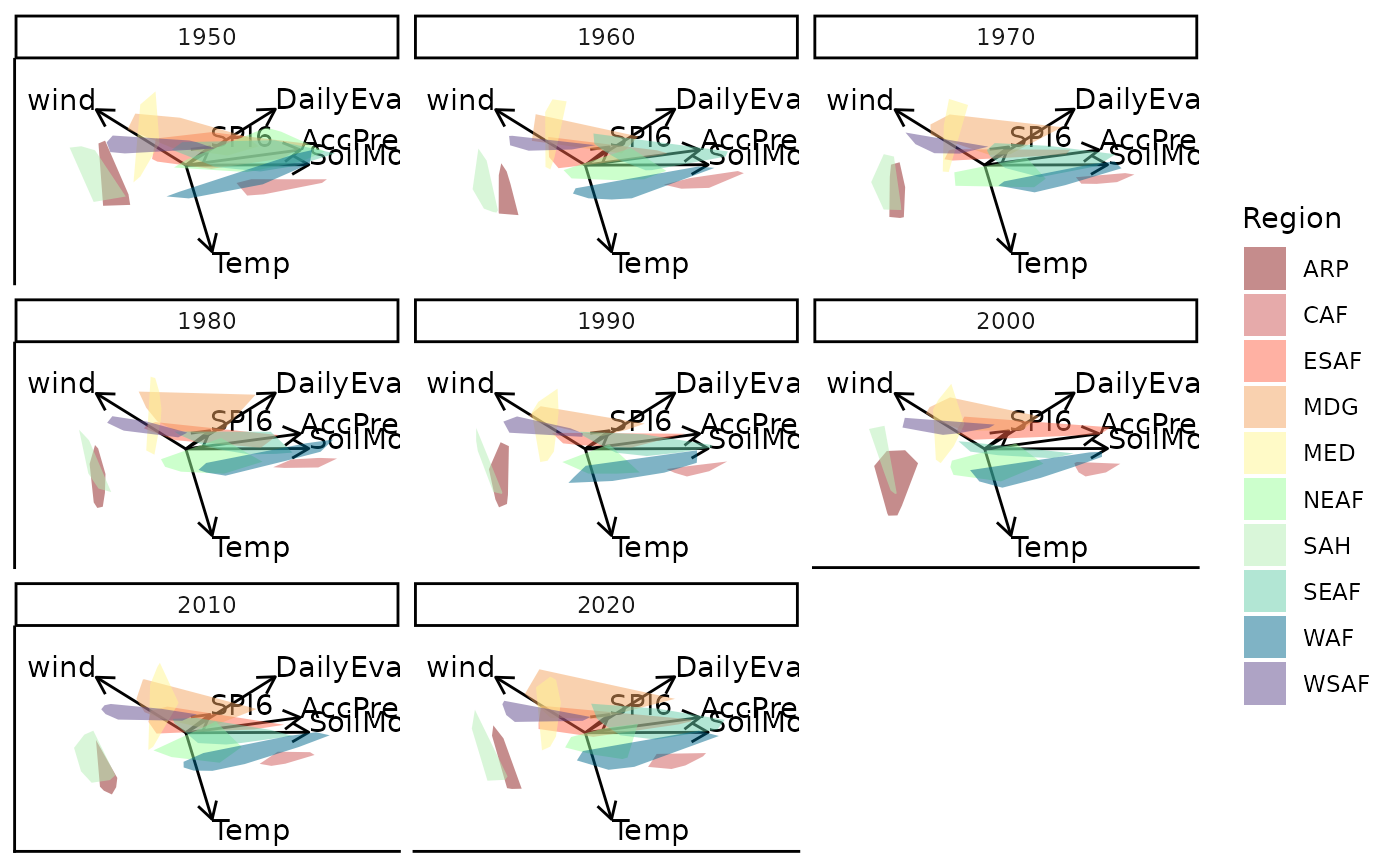
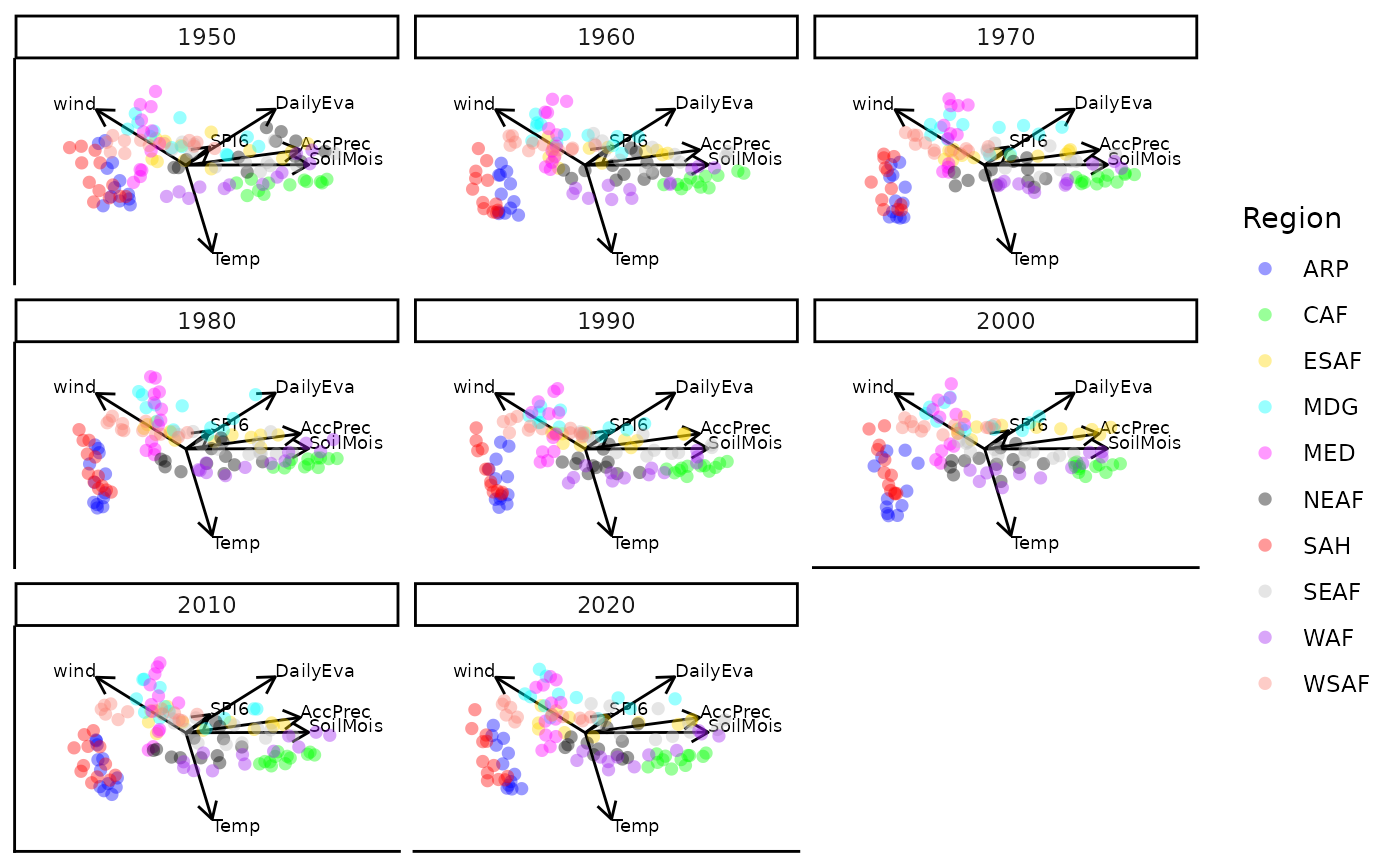
Deploying to gh-pages from @ MuViSU/moveEZ@7797b921eb3005dbe984639da14c3c2bad8bb5d6 🚀

diff --git a/reference/moveplot.html b/reference/moveplot.html
@@ -133,13 +133,23 @@
 <span class="r-out co"><span class="r-pr">#&gt;</span> Object of class biplot, based on 960 samples and 9 variables.</span>
 <span class="r-out co"><span class="r-pr">#&gt;</span> 6 numeric variables.</span>
 <span class="r-out co"><span class="r-pr">#&gt;</span> 3 categorical variables.</span>
+<span class="r-in"><span></span></span>
+<span class="r-in"><span><span class="co"># Specifying opacity of plotting characters and size of variable lables</span></span></span>
+<span class="r-in"><span><span class="va">bp</span> <span class="op">&lt;-</span> <span class="fu">biplotEZ</span><span class="fu">::</span><span class="fu"><a href="https://rdrr.io/pkg/biplotEZ/man/biplot.html" class="external-link">biplot</a></span><span class="op">(</span><span class="va">Africa_climate</span>, scaled <span class="op">=</span> <span class="cn">TRUE</span>, group.aes <span class="op">=</span> <span class="va">Africa_climate</span><span class="op">$</span><span class="va">Region</span><span class="op">)</span> <span class="op">|&gt;</span></span></span>
+<span class="r-in"><span><span class="fu">biplotEZ</span><span class="fu">::</span><span class="fu"><a href="https://rdrr.io/pkg/biplotEZ/man/PCA.html" class="external-link">PCA</a></span><span class="op">(</span><span class="op">)</span> <span class="op">|&gt;</span> <span class="fu">biplotEZ</span><span class="fu">::</span><span class="fu"><a href="https://rdrr.io/pkg/biplotEZ/man/samples.html" class="external-link">samples</a></span><span class="op">(</span>opacity <span class="op">=</span> <span class="fl">0.4</span><span class="op">)</span> <span class="op">|&gt;</span> <span class="fu">biplotEZ</span><span class="fu">::</span><span class="fu"><a href="https://rdrr.io/pkg/biplotEZ/man/axes.html" class="external-link">axes</a></span><span class="op">(</span>label.cex <span class="op">=</span> <span class="fl">1.2</span><span class="op">)</span></span></span>
+<span class="r-in"><span><span class="va">bp</span> <span class="op">|&gt;</span> <span class="fu">moveplot</span><span class="op">(</span>time.var <span class="op">=</span> <span class="st">"Year"</span>, group.var <span class="op">=</span> <span class="st">"Region"</span>, hulls <span class="op">=</span> <span class="cn">FALSE</span>, move <span class="op">=</span> <span class="cn">FALSE</span><span class="op">)</span></span></span>
+<span class="r-plt img"><img src="moveplot-5.png" alt="" width="700" height="433"></span>
+<span class="r-out co"><span class="r-pr">#&gt;</span> Object of class biplot, based on 960 samples and 9 variables.</span>
+<span class="r-out co"><span class="r-pr">#&gt;</span> 6 numeric variables.</span>
+<span class="r-out co"><span class="r-pr">#&gt;</span> 3 categorical variables.</span>
+<span class="r-in"><span></span></span>
 <span class="r-in"><span><span class="co"># Specifying colours manually in biplotEZ</span></span></span>
 <span class="r-in"><span><span class="va">bp</span> <span class="op">&lt;-</span> <span class="fu">biplotEZ</span><span class="fu">::</span><span class="fu"><a href="https://rdrr.io/pkg/biplotEZ/man/biplot.html" class="external-link">biplot</a></span><span class="op">(</span><span class="va">Africa_climate</span>, scaled <span class="op">=</span> <span class="cn">TRUE</span>, group.aes <span class="op">=</span> <span class="va">Africa_climate</span><span class="op">$</span><span class="va">Region</span><span class="op">)</span> <span class="op">|&gt;</span></span></span>
 <span class="r-in"><span><span class="fu">biplotEZ</span><span class="fu">::</span><span class="fu"><a href="https://rdrr.io/pkg/biplotEZ/man/PCA.html" class="external-link">PCA</a></span><span class="op">(</span><span class="op">)</span> <span class="op">|&gt;</span> <span class="fu">biplotEZ</span><span class="fu">::</span><span class="fu"><a href="https://rdrr.io/pkg/biplotEZ/man/samples.html" class="external-link">samples</a></span><span class="op">(</span>col <span class="op">=</span> <span class="fu"><a href="https://rdrr.io/r/base/c.html" class="external-link">c</a></span><span class="op">(</span><span class="st">"firebrick4"</span>, <span class="st">"indianred3"</span>, <span class="st">"tomato"</span>, <span class="st">"sandybrown"</span>,</span></span>
 <span class="r-in"><span> <span class="st">"khaki1"</span>, <span class="st">"palegreen1"</span>, <span class="st">"darkseagreen2"</span>, <span class="st">"mediumaquamarine"</span>, <span class="st">"deepskyblue4"</span>, <span class="st">"mediumpurple4"</span><span class="op">)</span><span class="op">)</span></span></span>
 <span class="r-in"><span><span class="va">bp</span> <span class="op">|&gt;</span> <span class="fu">moveplot</span><span class="op">(</span>time.var <span class="op">=</span> <span class="st">"Year"</span>, group.var <span class="op">=</span> <span class="st">"Region"</span>, hulls <span class="op">=</span> <span class="cn">TRUE</span>, move <span class="op">=</span> <span class="cn">FALSE</span><span class="op">)</span></span></span>
 <span class="r-wrn co"><span class="r-pr">#&gt;</span> <span class="warning">Warning: </span>Ignoring empty aesthetic: `size`.</span>
-<span class="r-plt img"><img src="moveplot-5.png" alt="" width="700" height="433"></span>
+<span class="r-plt img"><img src="moveplot-6.png" alt="" width="700" height="433"></span>
 <span class="r-out co"><span class="r-pr">#&gt;</span> Object of class biplot, based on 960 samples and 9 variables.</span>
 <span class="r-out co"><span class="r-pr">#&gt;</span> 6 numeric variables.</span>
 <span class="r-out co"><span class="r-pr">#&gt;</span> 3 categorical variables.</span>

diff --git a/reference/moveplot.md b/reference/moveplot.md
@@ -98,6 +98,16 @@ bp |> moveplot(time.var = "Year", group.var = "Region", hulls = FALSE, move = FA
 #> Object of class biplot, based on 960 samples and 9 variables.
 #> 6 numeric variables.
 #> 3 categorical variables.
+
+# Specifying opacity of plotting characters and size of variable lables
+bp <- biplotEZ::biplot(Africa_climate, scaled = TRUE, group.aes = Africa_climate$Region) |>
+biplotEZ::PCA() |> biplotEZ::samples(opacity = 0.4) |> biplotEZ::axes(label.cex = 1.2)
+bp |> moveplot(time.var = "Year", group.var = "Region", hulls = FALSE, move = FALSE)
+
+#> Object of class biplot, based on 960 samples and 9 variables.
+#> 6 numeric variables.
+#> 3 categorical variables.
+
 # Specifying colours manually in biplotEZ
 bp <- biplotEZ::biplot(Africa_climate, scaled = TRUE, group.aes = Africa_climate$Region) |>
 biplotEZ::PCA() |> biplotEZ::samples(col = c("firebrick4", "indianred3", "tomato", "sandybrown",